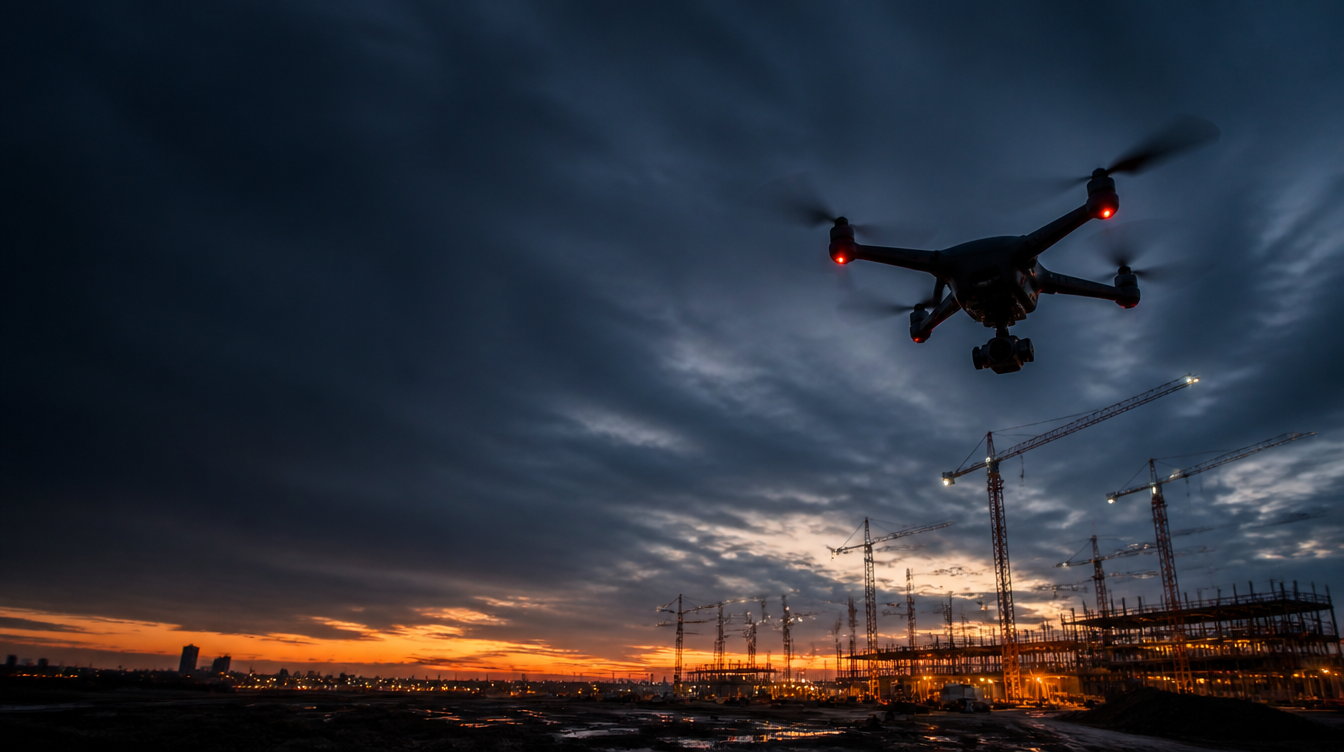
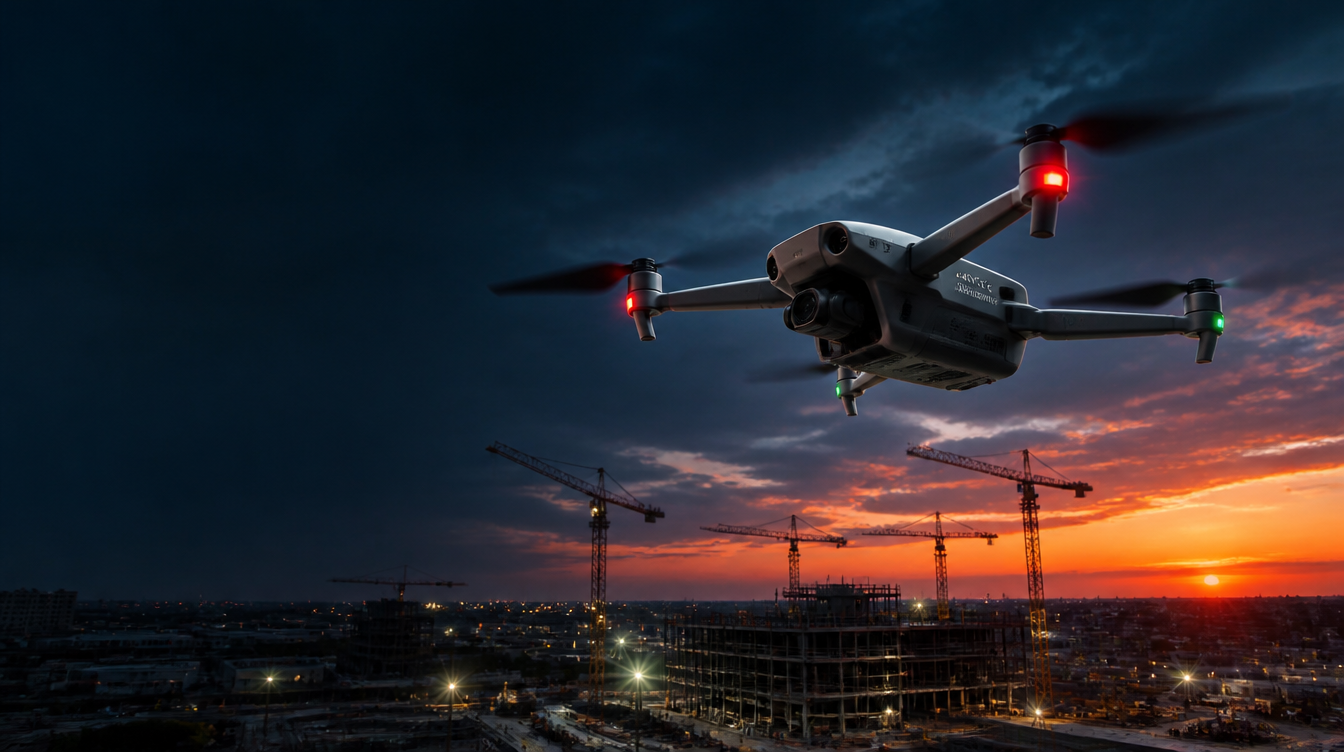
fix: new hero image with modern DJI Mavic 4E drone + move text inset from edge
- Replaced hero image with Higgsfield-generated photo featuring a modern DJI Mavic 4E
  (sleek, compact, folding arms — not the older bulky quadcopter)
- Moved hero content padding from 28px to 8% so text isn't flush against the far left edge
- Drone is visible in upper right with red/green nav lights over construction site at dusk
- Left side stays dark for text readability

diff --git a/index.html b/index.html
@@ -80,7 +80,7 @@ h1,h2,h3,h4{margin:0}
 #hero{position:relative;overflow:hidden;min-height:auto;display:flex;flex-direction:column;justify-content:center;padding:100px 0 60px}
 .hero-bg{position:absolute;top:0;left:0;width:100%;height:100%;object-fit:cover;object-position:center}
 .hero-overlay{position:absolute;inset:0;background:linear-gradient(90deg,rgba(13,21,32,.85) 0%,rgba(13,21,32,.6) 30%,rgba(13,21,32,.25) 60%,rgba(13,21,32,.05) 100%)}
-.hero-content{position:relative;z-index:2;padding-left:28px;padding-right:28px}
+.hero-content{position:relative;z-index:2;padding-left:8%;padding-right:8%}
 .hero-tag{font-family:'Barlow Condensed',sans-serif;font-weight:600;font-size:14px;letter-spacing:.22em;color:#c9a54b;text-transform:uppercase;margin-bottom:22px}
 .hero-h1{font-family:'Barlow Condensed',sans-serif;font-weight:800;font-size:clamp(52px,7.5vw,86px);line-height:.96;text-transform:uppercase;margin:0 0 28px;color:#fff}
 .hero-h1 .accent{color:#2b8fd8;display:block}
